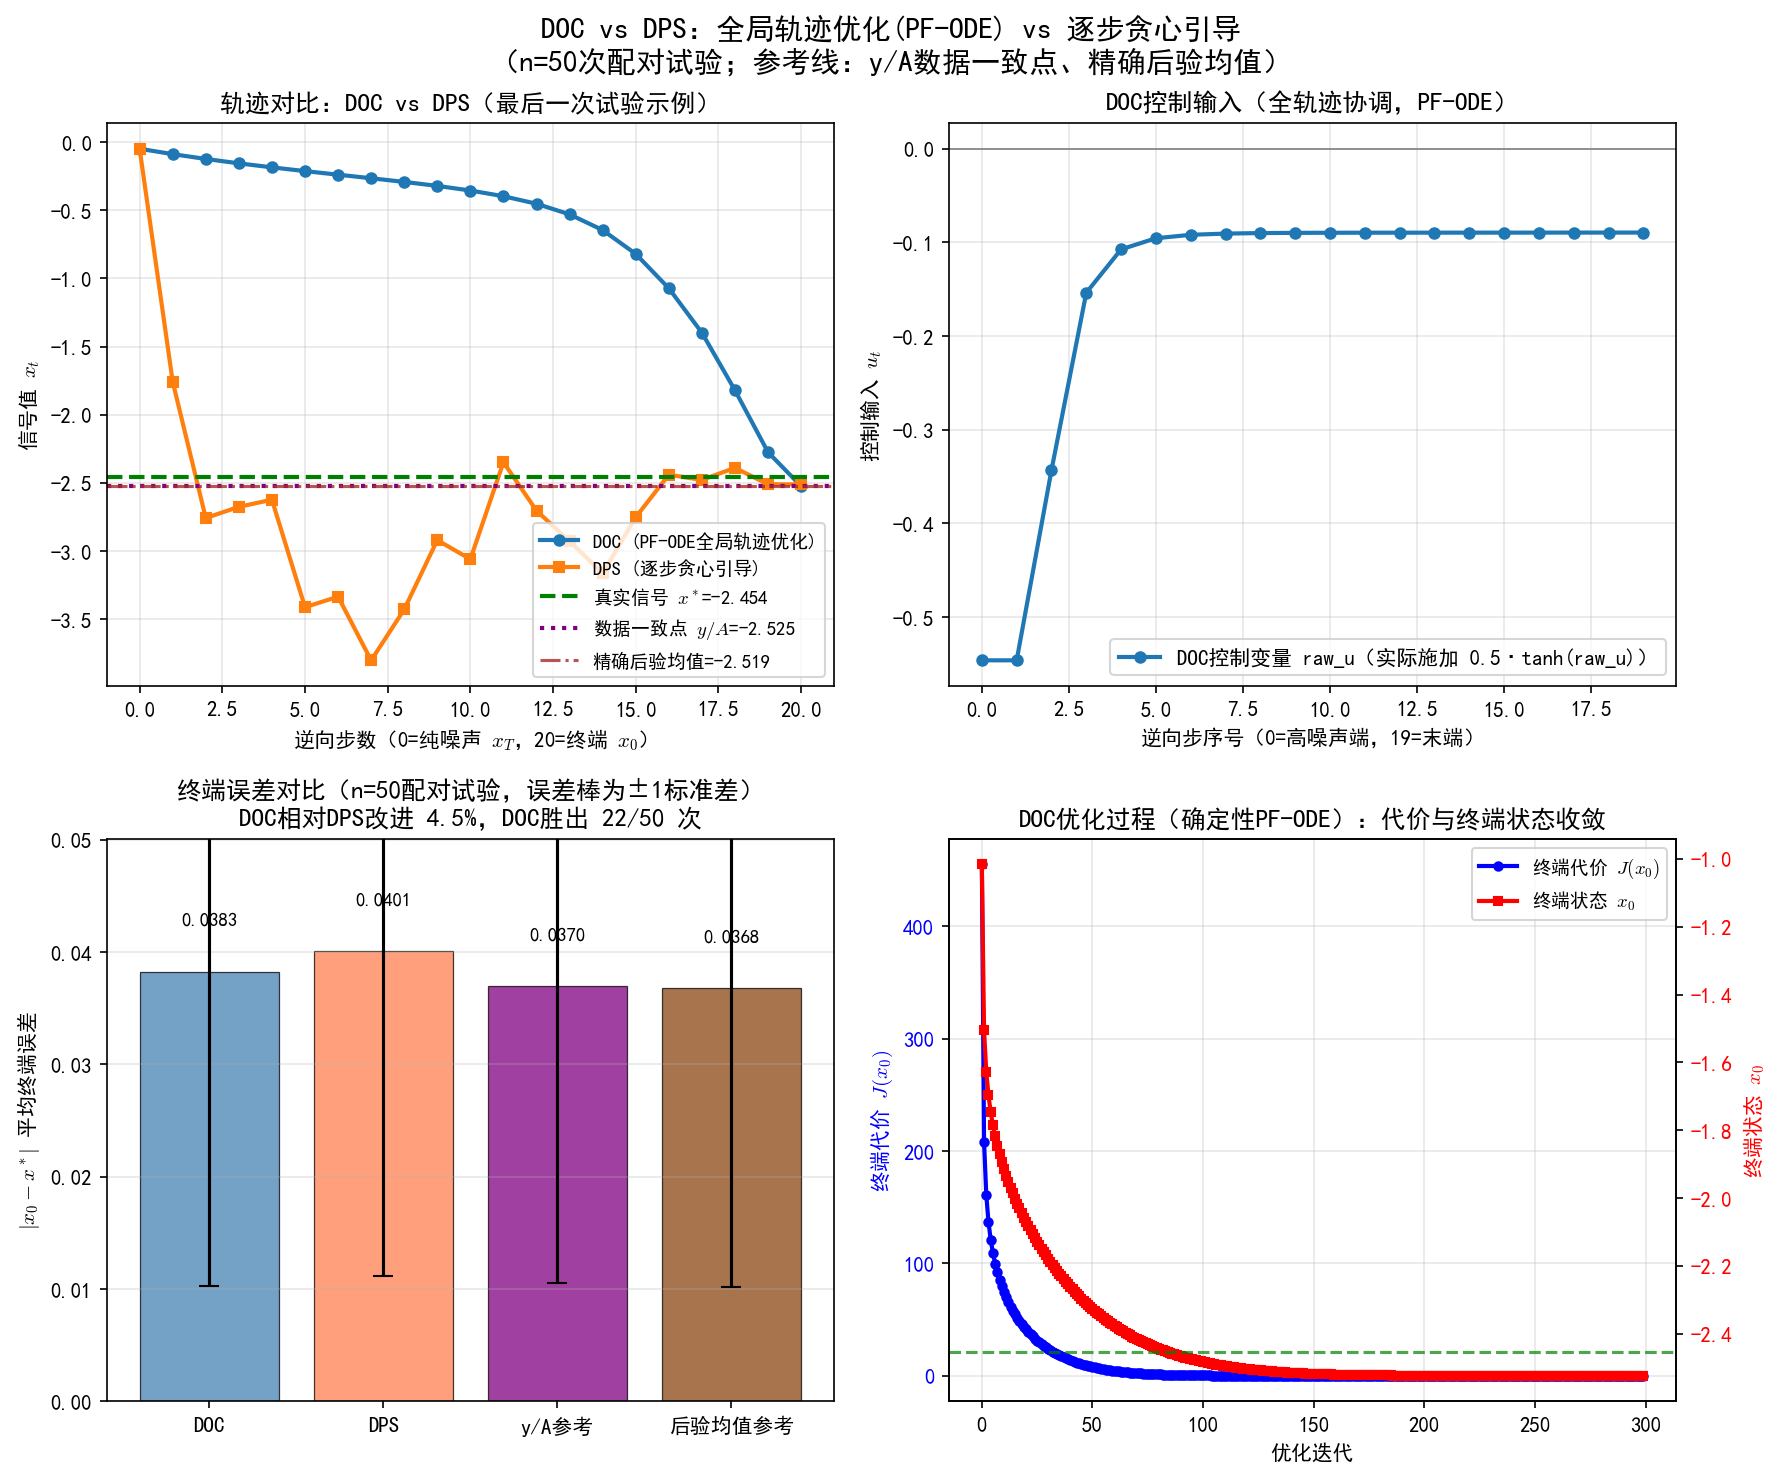
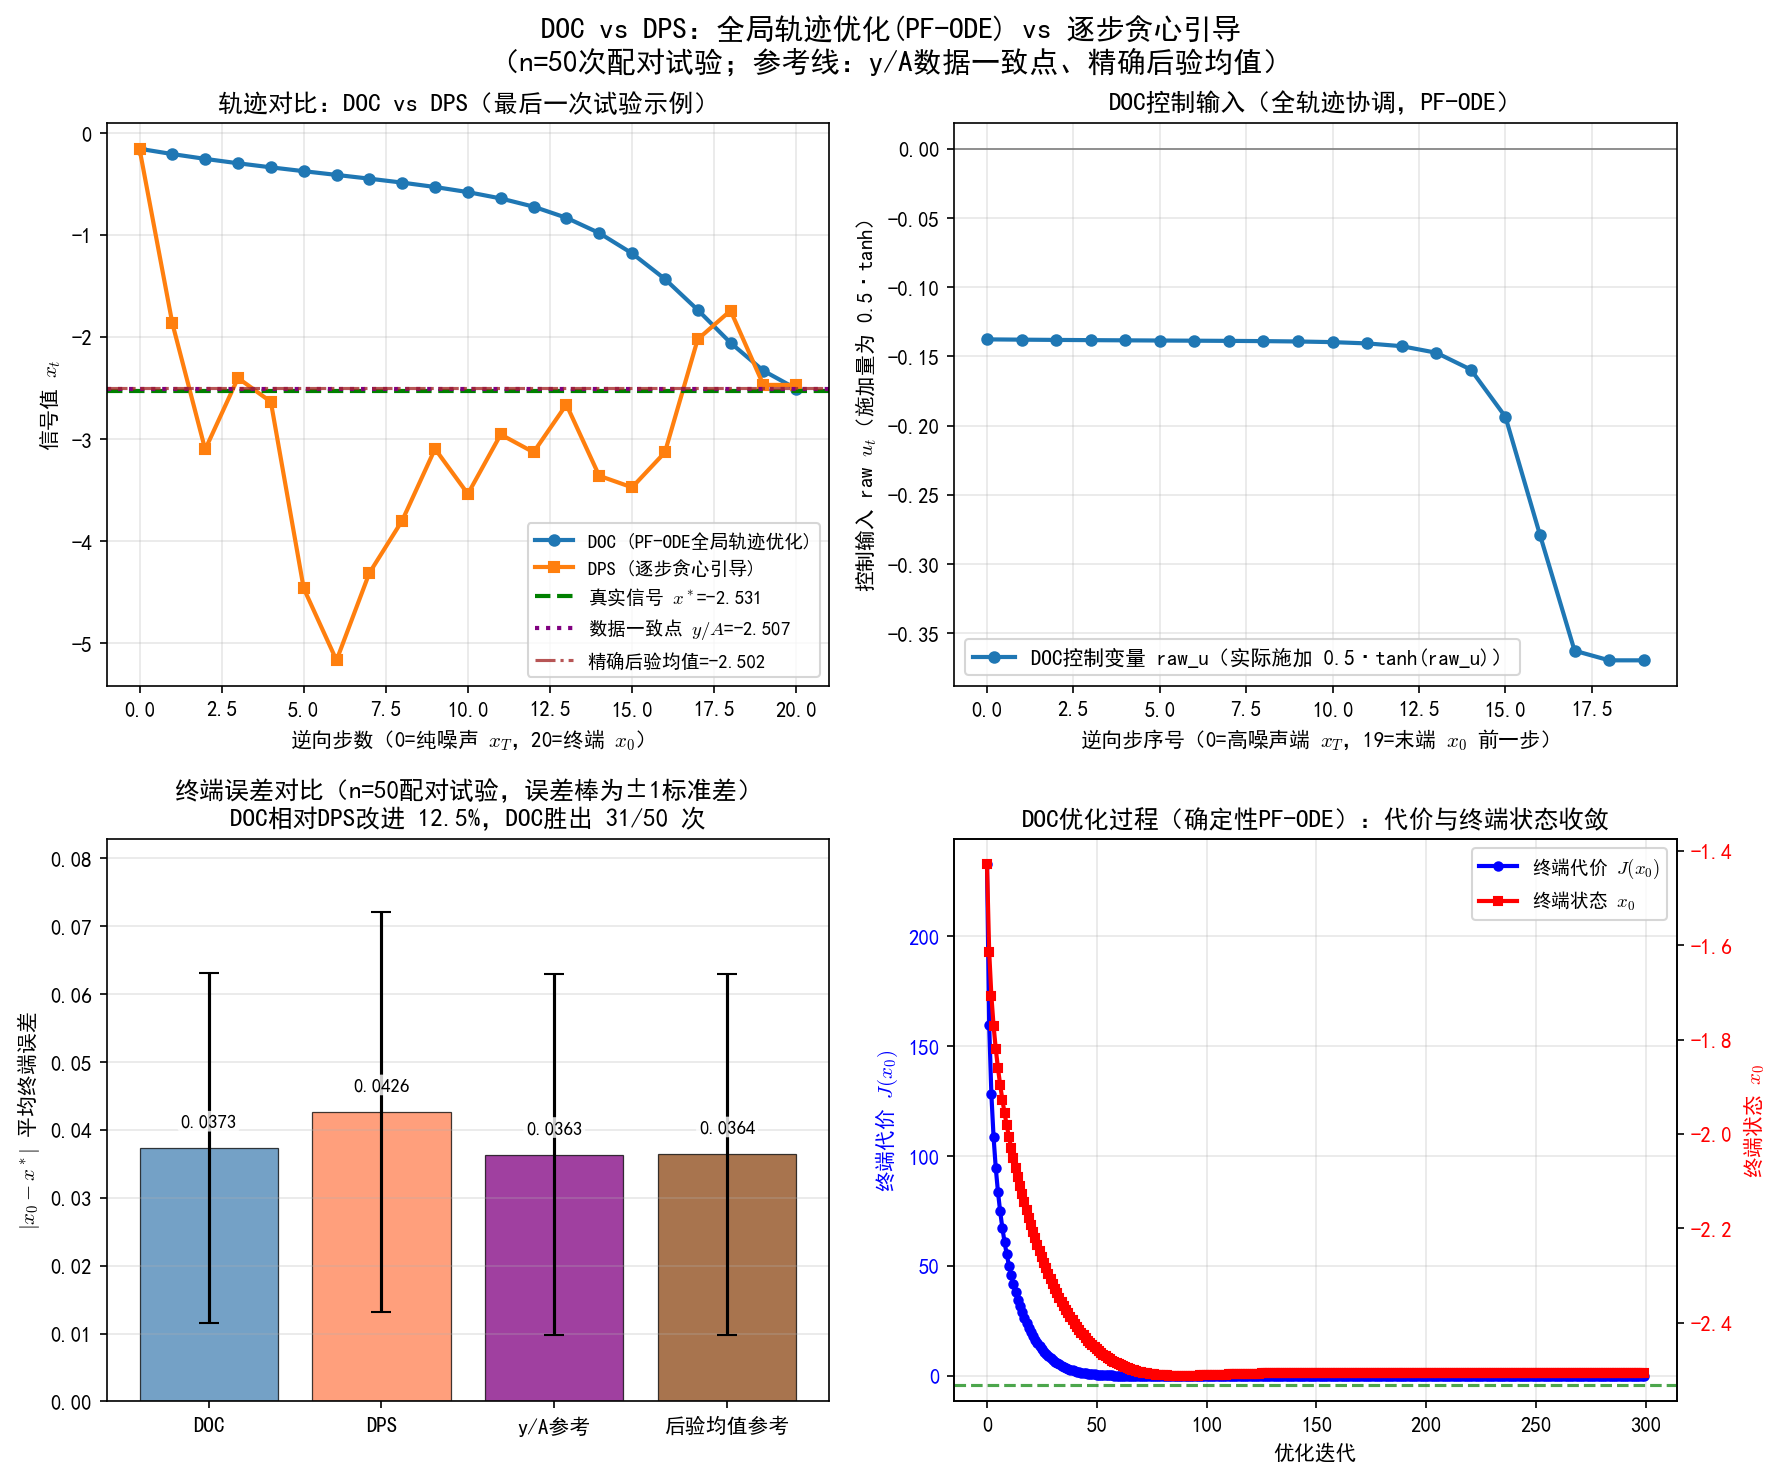
1

diff --git a/book/manuscript/ch13/第十三章 配套实验/实验13.5-1/13.5-1.py b/book/manuscript/ch13/第十三章 配套实验/实验13.5-1/13.5-1.py
@@ -643,14 +643,25 @@ axes[0, 0].set_title('轨迹对比：DOC vs DPS（最后一次试验示例）')
 axes[0, 0].legend(fontsize=9)
 axes[0, 0].grid(True, alpha=0.3)
 
-# 子图2：控制输入（索引按逆向顺序：0=最早的高噪声步控制）
-axes[0, 1].plot(range(T), doc_controls.cpu().numpy(), 'o-', label='DOC控制变量 raw_u（实际施加 0.5·tanh(raw_u)）',
+# 子图2：控制输入（横轴与子图1同向：0=高噪声端 x_T，T-1=末端 x_0 前一步）
+# ★ control_sequence 按 t_idx 索引：t_idx=T-1 是首个逆向步（高噪声端），t_idx=0 是末步。
+#   必须把数组倒过来画，否则末步会落在横轴 0 上、与子图1"左=高噪声"的方向相反
+#   （旧版直接用 range(T) 配原数组，横轴标签与曲线方向互相矛盾）。
+axes[0, 1].plot(range(T), doc_controls.flip(0).cpu().numpy(), 'o-',
+                label='DOC控制变量 raw_u（实际施加 0.5·tanh(raw_u)）',
                 linewidth=2, markersize=5)
 axes[0, 1].axhline(y=0, color='gray', linewidth=0.8)
-axes[0, 1].set_xlabel(f'逆向步序号（0=高噪声端，{T-1}=末端）')
-axes[0, 1].set_ylabel('控制输入 $u_t$')
-axes[0, 1].set_title('DOC控制输入（全轨迹协调，PF-ODE）')
-axes[0, 1].legend()
+axes[0, 1].set_xlabel(f'逆向步序号（0=高噪声端 $x_T$，{T-1}=末端 $x_0$ 前一步）')
+axes[0, 1].set_ylabel('控制输入 raw $u_t$（施加量为 0.5·tanh）')
+_b_title = 'DOC控制输入（全轨迹协调，PF-ODE）'
+if not IS_MAIN_T:
+    # 只标注能从曲线上读出来的事实：控制量级与离饱和线的距离。
+    # （控制形状对初始化/迭代次数敏感——重跑前那一版的峰值落在中段，见正文步骤4b 的重跑说明——
+    #   所以标题不再对"是否收敛"下判断，避免把某一次优化路径的形态写成结论。）
+    _u_abs_max = float(np.abs(doc_controls.cpu().numpy()).max())
+    _b_title += f'\n（T={T}：|raw_u| 全程 ≤ {_u_abs_max:.2f}，离 U_MAX=0.5 的饱和线很远）'
+axes[0, 1].set_title(_b_title, fontsize=(10 if not IS_MAIN_T else 12))
+axes[0, 1].legend(fontsize=(8 if not IS_MAIN_T else 10))
 axes[0, 1].grid(True, alpha=0.3)
 
 # 子图3：n次试验的平均终端误差（总体统计，带标准差棒）
@@ -660,15 +671,37 @@ stds = [doc_std_error, dps_std_error, np.std(yA_errors), np.std(postmean_errors)
 colors = ['steelblue', 'coral', 'purple', 'saddlebrown']
 bars = axes[1, 0].bar(methods, means, yerr=stds, color=colors, alpha=0.75,
                       capsize=5, edgecolor='black', linewidth=0.6)
+# ★ 注意：max(means + stds) 是**列表拼接**、不是逐元素求和，旧版据此定轴高，结果只按
+#   "最大均值"取上限，DOC 与 DPS 的误差棒上须都被裁掉。逐元素求和后再留 15% 余量。
+_y_top = float(np.max(np.asarray(means) + np.asarray(stds))) * 1.15
 for bar, m in zip(bars, means):
-    axes[1, 0].text(bar.get_x() + bar.get_width()/2, m + 0.004, f'{m:.4f}',
-                    ha='center', va='bottom', fontsize=9)
+    # 标签偏移按坐标轴量程取并加白底，避免被误差棒的竖线/帽线穿过（旧版固定 +0.004 会压字）
+    axes[1, 0].text(bar.get_x() + bar.get_width()/2, m + 0.035 * _y_top, f'{m:.4f}',
+                    ha='center', va='bottom', fontsize=9,
+                    bbox=dict(boxstyle='round,pad=0.15', fc='white', ec='none', alpha=0.8))
 axes[1, 0].set_ylabel('$|x_0 - x^*|$ 平均终端误差')
-axes[1, 0].set_title(f'终端误差对比（n={n_trials}配对试验，误差棒为±1标准差）\n'
-                     f'DOC相对DPS改进 {(dps_mean_error-doc_mean_error)/dps_mean_error*100:.1f}%，'
-                     f'DOC胜出 {doc_win_count}/{n_trials} 次')
+# ★ 口径：T≠20 时"主报 ζ"是按 ζ∝T 外推选的，可能已越界（本实验 T=200 的 ζ=0.3 方差比≈40、
+#   单条链过冲到 -6.6）。用"主报 ζ"的分母算改进率等于挑最有利的对照，故标题改用 ζ 扫描里
+#   最有利于 DPS 的那一档，并把主报 ζ 越界这件事写进标题。
+_zeta_ok = [k for k, v in dps_errors_by_zeta.items() if len(v)]
+_best_zeta = min(_zeta_ok, key=lambda k: float(np.mean(dps_errors_by_zeta[k])))
+_best_dps_err = float(np.mean(dps_errors_by_zeta[_best_zeta]))
+if IS_MAIN_T or _best_dps_err <= 0:
+    _c_line2 = (f'DOC相对DPS改进 {(dps_mean_error-doc_mean_error)/dps_mean_error*100:.1f}%，'
+                f'DOC胜出 {doc_win_count}/{n_trials} 次')
+else:
+    _c_line2 = (f'DOC 胜出 {doc_win_count}/{n_trials} 次；对 DPS 最优 ζ={_best_zeta:g} 仍低 '
+                f'{(_best_dps_err - doc_mean_error)/_best_dps_err*100:.1f}%'
+                f'（主报 ζ={DPS_ZETA_MAIN:g} 已越界，见正文）')
+axes[1, 0].set_title(f'终端误差对比（n={n_trials}配对试验，误差棒为±1标准差）\n{_c_line2}',
+                     fontsize=(10 if not IS_MAIN_T else 12))
 axes[1, 0].grid(True, alpha=0.3, axis='y')
-axes[1, 0].set_ylim(0, max(means + stds) * 1.25)
+axes[1, 0].set_ylim(0, _y_top)
+# 标准差远大于均值时上须会超出轴范围：标注被裁剪的上界，避免读者把"截断"当数据
+if dps_mean_error + dps_std_error > 0.98 * _y_top:
+    axes[1, 0].text(bars[1].get_x() + bars[1].get_width() / 2, 0.97 * _y_top,
+                    f'DPS 误差棒上界 {dps_mean_error + dps_std_error:.2f}（超出轴范围，已裁剪）',
+                    ha='center', va='top', fontsize=8, color='0.35')
 
 # 子图4：优化历史（同时展示终端代价和终端状态x0的收敛）
 iter_costs_history = []
